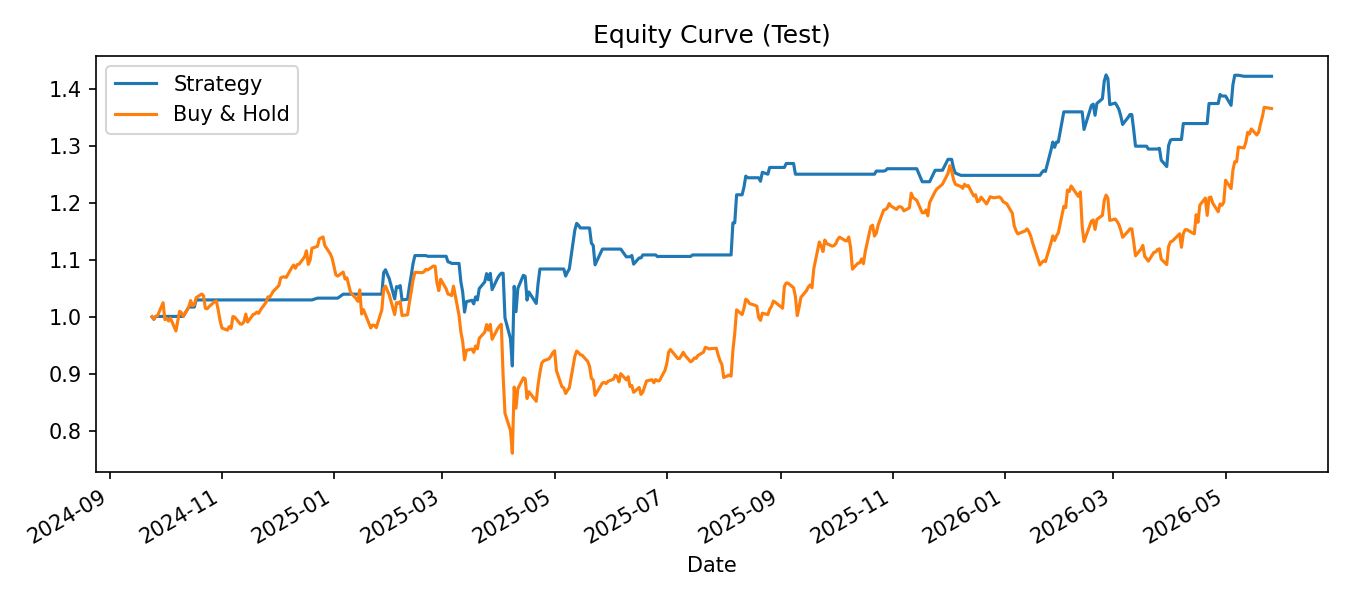
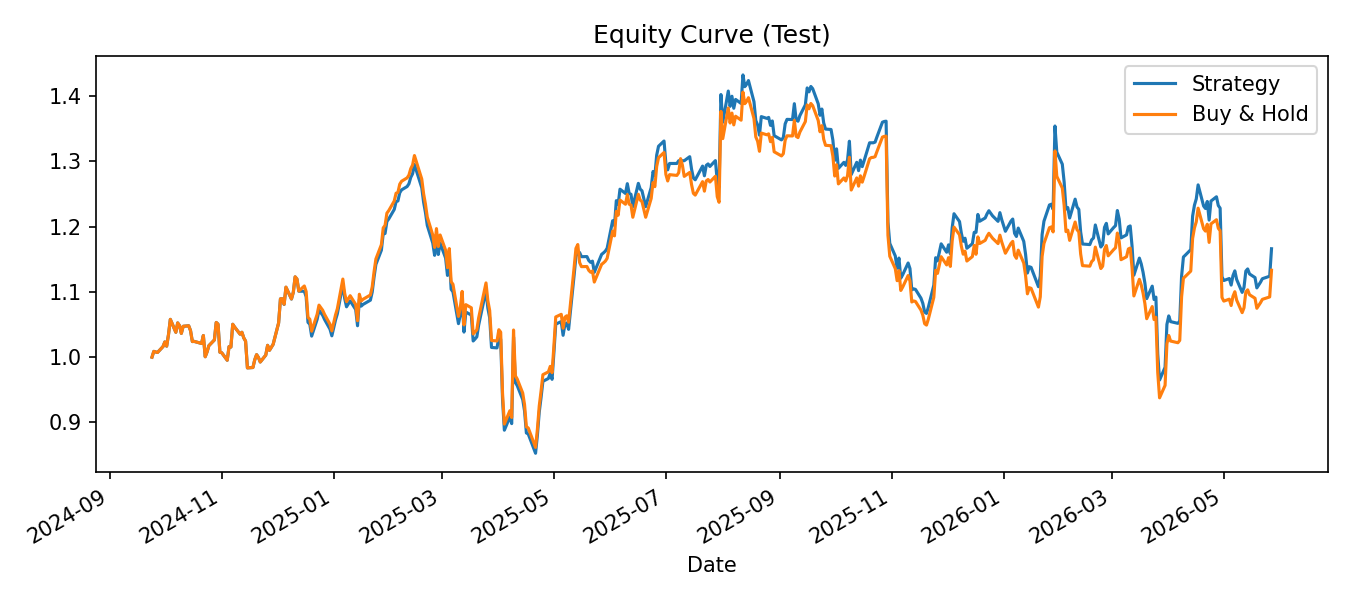
Fixed theme issues and improved UI

diff --git a/app.py b/app.py
@@ -1,5 +1,6 @@
 from __future__ import annotations
 
+
 import streamlit as st
 import pandas as pd
 import numpy as np
@@ -252,7 +253,83 @@ st.markdown(
     .stAlert {{
         border-radius: 12px;
     }}
+    
+    /* =========================
+    EXPANDER + DATAFRAME FIX
+    ========================= */
 
+    div[data-testid="stExpander"] {{
+        background-color: {colors["CARD"]} !important;
+        border: 1px solid rgba(150,150,150,0.35) !important;
+        border-radius: 12px !important;
+        overflow: hidden !important;
+    }}
+
+    div[data-testid="stExpander"] summary {{
+        background-color: {colors["CARD"]} !important;
+        color: {colors["FG"]} !important;
+        font-weight: 600 !important;
+    }}
+
+    div[data-testid="stExpander"] summary * {{
+        color: {colors["FG"]} !important;
+    }}
+
+    div[data-testid="stExpander"] div {{
+        color: {colors["FG"]} !important;
+    }}
+
+    /* =========================
+    DATAFRAME FIX
+    ========================= */
+
+    div[data-testid="stDataFrame"] {{
+        background-color: {colors["CARD"]} !important;
+        border-radius: 12px !important;
+    }}
+
+    div[data-testid="stDataFrame"] * {{
+        color: {colors["FG"]} !important;
+    }}
+
+    /* Table header */
+    div[data-testid="stDataFrame"] thead tr th {{
+        background-color: {colors["CARD"]} !important;
+        color: {colors["FG"]} !important;
+    }}
+
+    /* Table cells */
+    div[data-testid="stDataFrame"] tbody tr td {{
+        background-color: {colors["INPUT"]} !important;
+        color: {colors["FG"]} !important;
+    }}
+
+    /* FINAL CHART TOOLTIP FIX */
+        #vg-tooltip-element {{
+        background: white !important;
+        color: black !important;
+        border: 1px solid #999 !important;
+        border-radius: 10px !important;
+        padding: 10px !important;
+        font-size: 14px !important;
+        opacity: 1 !important;
+        z-index: 999999 !important;
+    }}
+
+    #vg-tooltip-element * {{
+        color: black !important;
+        background: white !important;
+        opacity: 1 !important;
+    }}
+
+    #vg-tooltip-element table,
+    #vg-tooltip-element tbody,
+    #vg-tooltip-element tr,
+    #vg-tooltip-element td,
+    #vg-tooltip-element th {{
+        color: black !important;
+        background: white !important;
+    }}
     </style>
     """,
     unsafe_allow_html=True,
@@ -465,7 +542,7 @@ if run:
     close_chart = pd.to_numeric(close_chart, errors="coerce").dropna()
     close_chart.name = "Close"
 
-    st.line_chart(close_chart)
+    st.line_chart(close_chart, use_container_width=True)
 
     # ---------------- FEATURES ----------------
     st.subheader("2) Features & Target")
@@ -512,7 +589,11 @@ if run:
     st.bar_chart(target_counts)
 
     with st.expander("View all features used by the model"):
-        st.write(list(X.columns))
+        feature_df = pd.DataFrame({
+            "No.": range(1, len(X.columns) + 1),
+            "Feature Name": list(X.columns)
+        })
+        st.dataframe(feature_df, use_container_width=True)
 
     with st.expander("Preview feature dataset"):
         preview_df = X.copy()
@@ -561,10 +642,17 @@ if run:
     c3.metric("Recall", f"{cls['recall']:.3f}")
     c4.metric("ROC-AUC", f"{cls['roc_auc']:.3f}")
 
-    st.write("**Confusion Matrix:**", cls["confusion_matrix"])
+    cm = pd.DataFrame(
+    cls["confusion_matrix"],
+    index=["Actual Down/Hold", "Actual Up"],
+    columns=["Predicted Down/Hold", "Predicted Up"]
+)
+
+    st.write("**Confusion Matrix:**")
+    st.dataframe(cm, use_container_width=True)
 
     with st.expander("Full classification report"):
-        st.code(cls["classification_report"])
+        st.text(cls["classification_report"])
 
     # ---------------- BACKTEST ----------------
     st.subheader("6) Backtest")
